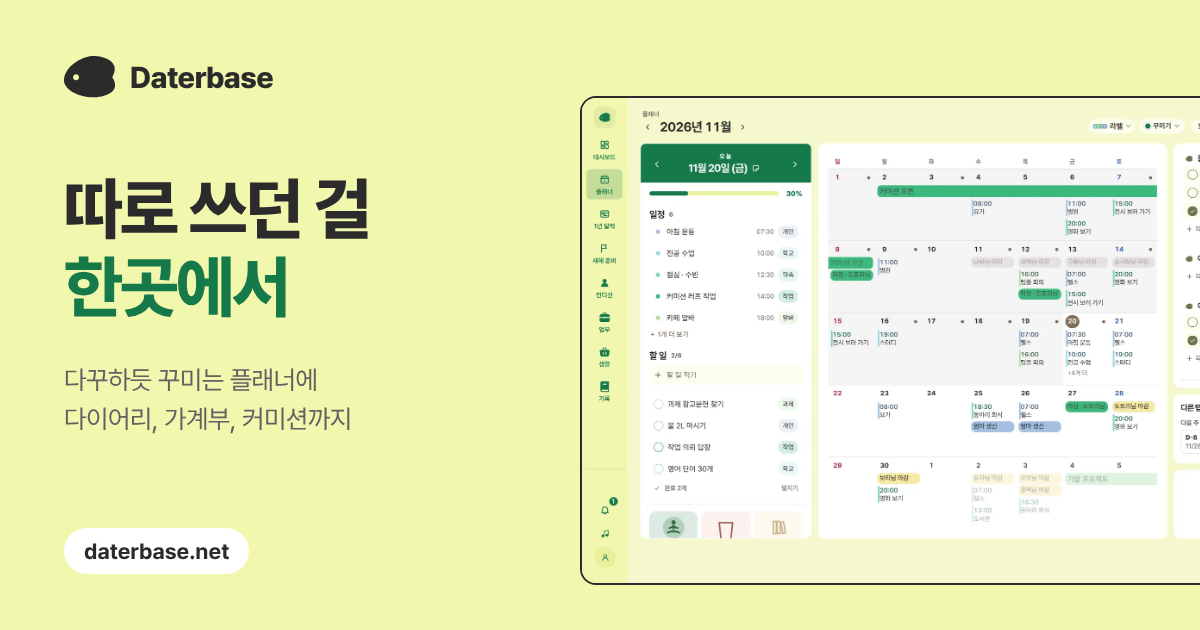
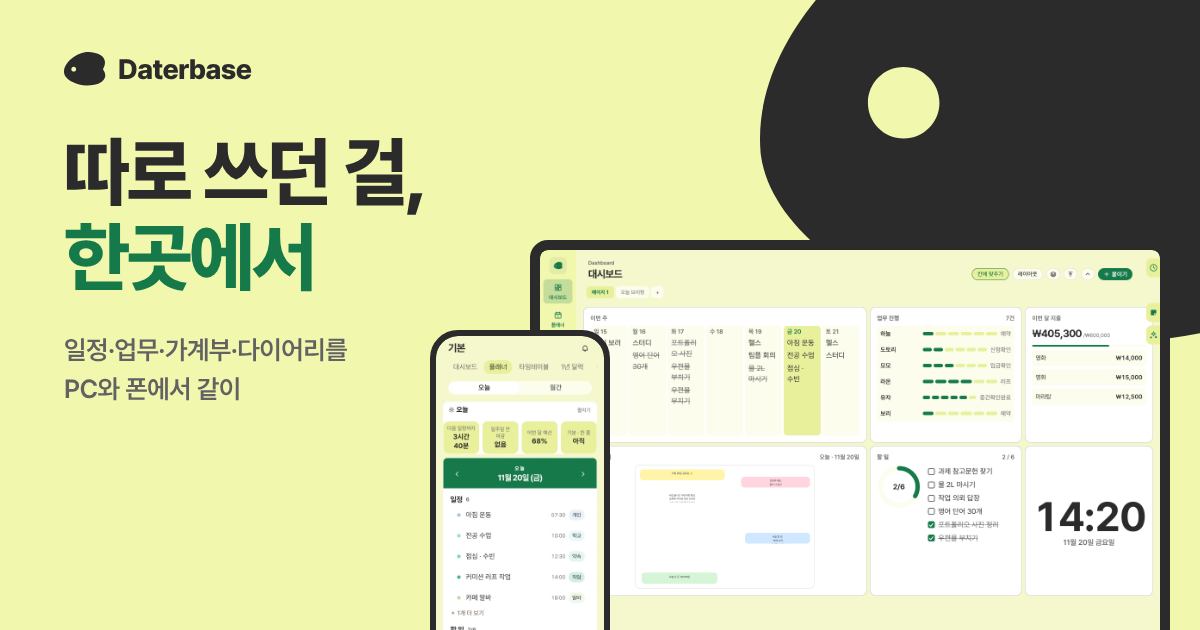
링크 미리보기 그림: 새로 찍은 대시보드(일정·업무·가계부·다이어리) + 폰, 큰 로고 배경 / 검색 설명 커미션→업무
04 11-27 23:55 'A'

Claude-Session: https://claude.ai/code/session_01Eyj7ZTsBQwteHXFj7ziVJR

diff --git a/index.html b/index.html
@@ -1,18 +1,18 @@
 <!doctype html>
 <html lang="ko"><head><meta charset="utf-8"><meta name="viewport" content="width=device-width,initial-scale=1">
 <title>Daterbase — 따로 쓰던 걸 한곳에서</title>
-<meta name="description" content="다꾸하듯 꾸미는 플래너에 다이어리, 가계부, 커미션까지. 따로 쓰던 걸 한곳에서, 한 번만 적으면 서로 이어집니다.">
+<meta name="description" content="다꾸하듯 꾸미는 플래너에 다이어리, 가계부, 업무까지. 따로 쓰던 걸 한곳에서, 한 번만 적으면 서로 이어집니다.">
 <link rel="canonical" href="https://daterbase.net/">
 <meta property="og:type" content="website">
 <meta property="og:site_name" content="Daterbase">
 <meta property="og:url" content="https://daterbase.net/">
 <meta property="og:title" content="Daterbase — 따로 쓰던 걸 한곳에서">
-<meta property="og:description" content="다꾸하듯 꾸미는 플래너에 다이어리, 가계부, 커미션까지. 한 번만 적으면 서로 이어집니다.">
+<meta property="og:description" content="다꾸하듯 꾸미는 플래너에 다이어리, 가계부, 업무까지. 한 번만 적으면 서로 이어집니다.">
 <meta property="og:locale" content="ko_KR">
 <meta property="og:image" content="https://daterbase.net/og.png">
 <meta property="og:image:width" content="1200">
 <meta property="og:image:height" content="630">
-<meta property="og:image:alt" content="Daterbase 플래너 화면">
+<meta property="og:image:alt" content="Daterbase 대시보드와 폰 플래너 화면">
 <meta name="twitter:card" content="summary_large_image">
 <link rel="preload" href="p.woff2" as="font" type="font/woff2" crossorigin>
 <link rel="icon" href="favicon.svg">
@@ -93,7 +93,7 @@ footer{padding:40px 0 56px;text-align:center;color:var(--sub);font-size:14px}
 <header class="hero"><div class="wrap top"><div class="logo"><img src="icon-192.png" width="36" height="36" alt="">Daterbase</div><nav class="nav"><a href="/app/">웹에서 열기</a><a href="/pc/">PC 프로그램 받기</a></nav></div><div class="wrap hb">
 <span class="pill"><i></i>텀블벅 펀딩 중 · 12월 6일까지</span>
 <h1>따로 쓰던 걸 <em>한곳에서</em></h1>
-<p class="lead">다꾸하듯 꾸미는 플래너에 다이어리, 가계부, 커미션까지.<br>한 번만 적으면 서로 이어집니다.</p>
+<p class="lead">다꾸하듯 꾸미는 플래너에 다이어리, 가계부, 업무까지.<br>한 번만 적으면 서로 이어집니다.</p>
 <div class="cta"><a class="btn btn--main" href="/app/">지금 바로 써 보기</a><span class="small">가입도 결제도 없이 열립니다 · <a href="https://airbridge.tumblbug.com/coxcedy" target="_blank" rel="noopener">텀블벅에서 후원하기</a></span></div>
 <div class="sl" id="sl"><div class="sl-tabs" role="group" aria-label="묶음 고르기"></div><div class="sl-names" role="group" aria-label="화면 고르기"></div>
 <div class="sl-view"><button class="sl-arrow pv" type="button" aria-label="이전 화면" hidden>‹</button><div class="pcbox"><img class="sshot" src="shots/dash.webp" width="1800" height="1125" alt="Daterbase 대시보드 화면"></div><div class="phbox"><img class="sshot" alt="" width="780" height="1688"></div><button class="sl-arrow nx" type="button" aria-label="다음 화면" hidden>›</button></div></div>

diff --git a/updates/index.html b/updates/index.html
@@ -9,7 +9,7 @@
 <meta property="og:image" content="https://daterbase.net/og.png">
 <meta property="og:image:width" content="1200">
 <meta property="og:image:height" content="630">
-<meta property="og:image:alt" content="Daterbase 플래너 화면">
+<meta property="og:image:alt" content="Daterbase 대시보드와 폰 플래너 화면">
 <meta name="twitter:card" content="summary_large_image">
 <title>Daterbase 업데이트 노트</title><meta name="description" content="Daterbase 버전별 업데이트 노트입니다. (Daterbase update notes)"><link rel="icon" href="../favicon.svg">
 <style>

diff --git a/pc/index.html b/pc/index.html
@@ -15,7 +15,7 @@
 <meta property="og:image" content="https://daterbase.net/og.png">
 <meta property="og:image:width" content="1200">
 <meta property="og:image:height" content="630">
-<meta property="og:image:alt" content="Daterbase 플래너 화면">
+<meta property="og:image:alt" content="Daterbase 대시보드와 폰 플래너 화면">
 <meta name="twitter:card" content="summary_large_image">
 <link rel="preload" href="/p.woff2" as="font" type="font/woff2" crossorigin>
 <link rel="icon" href="/favicon.svg">
